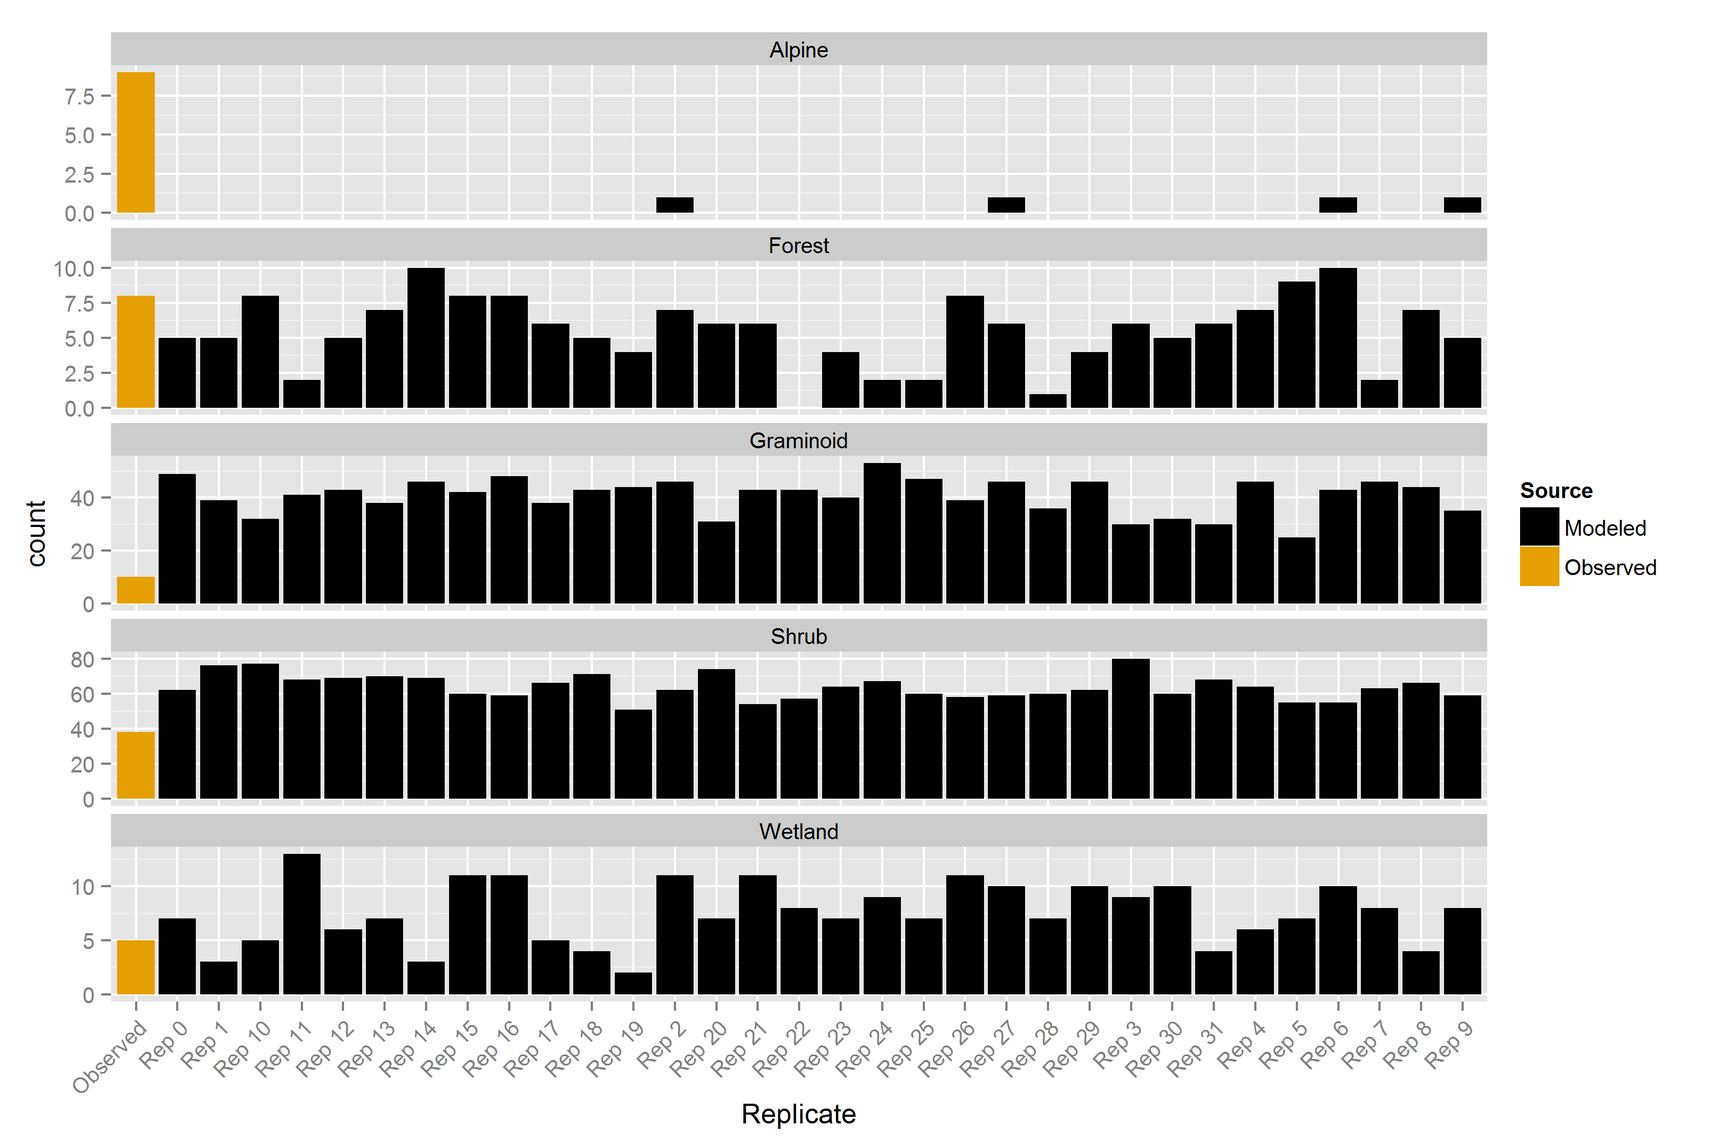
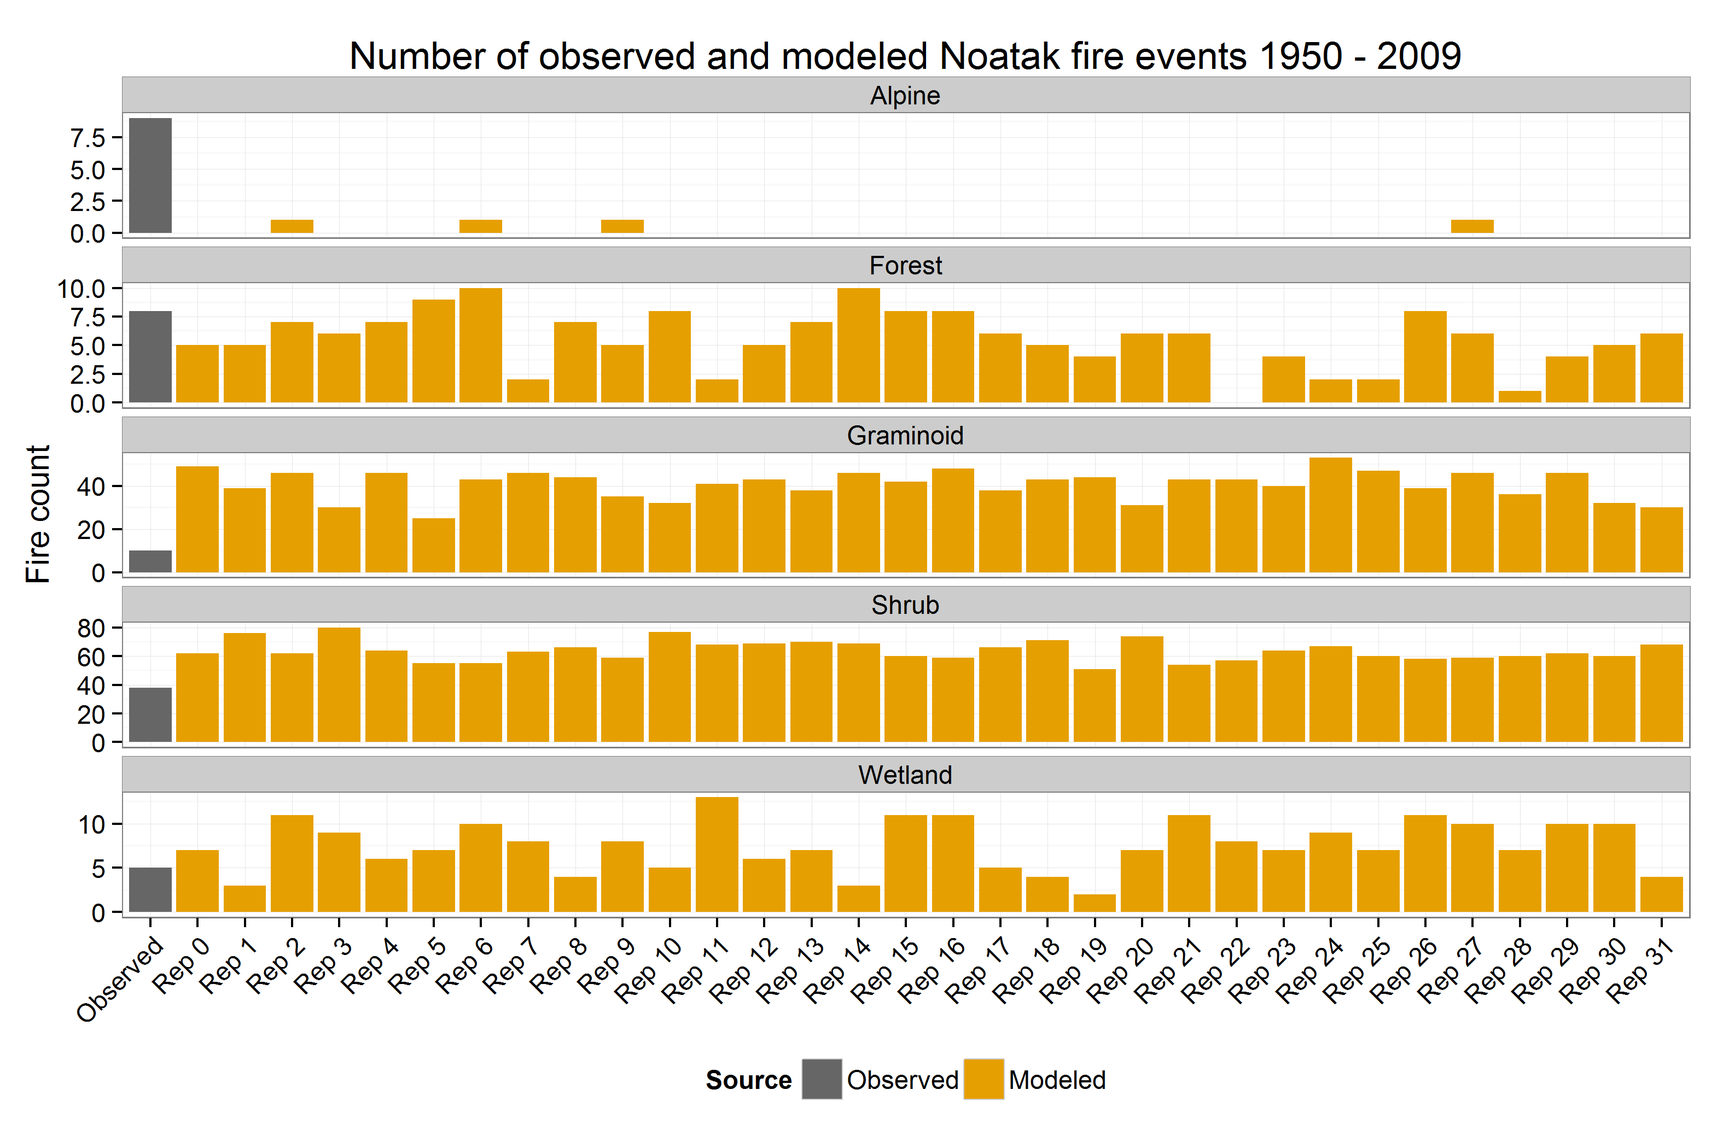
Update docs and plots

diff --git a/docs/html/fse_eda1.html b/docs/html/fse_eda1.html
@@ -171,7 +171,10 @@ img {
               <li><a href="fse_eda1.html">EDA: fire samples</a></li>
               <li><a href="fse_eda2.html">EDA: Noatak shrub fire</a></li>
               <li><a href="fse_eda3.html">EDA: statewide forest fire</a></li>
-              <li><a href="fse_mle.html">Maximum likelihood estimation</a></li>
+              <li class="divider"></li>
+              <li><a href="fse_mle1.html">MLE: setup</a></li>
+              <li><a href="fse_mle2.html">MLE: Noatak shrub fire</a></li>
+              <li><a href="fse_mle3.html">MLE: statewide forest fire</a></li>
             </ul>
 
           <li class="dropdown">
@@ -233,11 +236,19 @@ n.reps &lt;-<span class="st"> </span><span class="kw">length</span>(reps)
 dec &lt;-<span class="st"> </span><span class="kw">sort</span>(<span class="kw">unique</span>(d$Decade))
 n.dec &lt;-<span class="st"> </span><span class="kw">length</span>(dec)
 doms &lt;-<span class="st"> </span><span class="kw">c</span>(<span class="st">&quot;Noatak&quot;</span>, <span class="st">&quot;Statewide&quot;</span>)
+d &lt;-<span class="st"> </span><span class="kw">transform</span>(d, <span class="dt">Replicate =</span> <span class="kw">factor</span>(Replicate, <span class="dt">levels =</span> <span class="kw">unique</span>(Replicate)), 
+    <span class="dt">Source =</span> <span class="kw">factor</span>(Source, <span class="dt">levels =</span> <span class="kw">c</span>(<span class="st">&quot;Observed&quot;</span>, <span class="st">&quot;Modeled&quot;</span>)))
 
 <span class="kw">library</span>(ggplot2)
 <span class="kw">dir.create</span>(plotDir &lt;-<span class="st"> &quot;C:/github/Flammability/plots/fseMLE&quot;</span>, <span class="dt">showWarnings =</span> <span class="ot">FALSE</span>)
-cbpal &lt;-<span class="st"> </span><span class="kw">c</span>(<span class="st">&quot;#000000&quot;</span>, <span class="st">&quot;#E69F00&quot;</span>, <span class="st">&quot;#56B4E9&quot;</span>, <span class="st">&quot;#009E73&quot;</span>, <span class="st">&quot;#F0E442&quot;</span>, <span class="st">&quot;#0072B2&quot;</span>, 
-    <span class="st">&quot;#D55E00&quot;</span>, <span class="st">&quot;#CC79A7&quot;</span>)</code></pre>
+cbpal &lt;-<span class="st"> </span><span class="kw">c</span>(<span class="st">&quot;gray40&quot;</span>, <span class="st">&quot;#E69F00&quot;</span>, <span class="st">&quot;#56B4E9&quot;</span>, <span class="st">&quot;#009E73&quot;</span>, <span class="st">&quot;#F0E442&quot;</span>, <span class="st">&quot;#0072B2&quot;</span>, 
+    <span class="st">&quot;#D55E00&quot;</span>, <span class="st">&quot;#CC79A7&quot;</span>)
+
+<span class="co"># Plot setup</span>
+g &lt;-<span class="st"> </span><span class="kw">ggplot</span>(<span class="dt">data =</span> d, <span class="kw">aes</span>(<span class="dt">x =</span> Replicate, <span class="dt">fill =</span> Source)) +<span class="st"> </span><span class="kw">theme_bw</span>(<span class="dt">base_size =</span> <span class="dv">14</span>) +<span class="st"> </span>
+<span class="st">    </span><span class="kw">theme</span>(<span class="dt">legend.position =</span> <span class="st">&quot;bottom&quot;</span>, <span class="dt">axis.text.x =</span> <span class="kw">element_text</span>(<span class="dt">angle =</span> <span class="dv">45</span>, 
+        <span class="dt">hjust =</span> <span class="dv">1</span>)) +<span class="st"> </span><span class="kw">scale_fill_manual</span>(<span class="dt">values =</span> cbpal) +<span class="st"> </span><span class="kw">scale_colour_manual</span>(<span class="dt">values =</span> cbpal) +<span class="st"> </span>
+<span class="st">    </span><span class="kw">labs</span>(<span class="dt">x =</span> <span class="ot">NULL</span>, <span class="dt">y =</span> <span class="st">&quot;Fire count&quot;</span>)</code></pre>
 </div>
 </div>
 <div id="section-2" class="section level2">
@@ -250,35 +261,25 @@ cbpal &lt;-<span class="st"> </span><span class="kw">c</span>(<span class="st">&
 <div id="fire-count-by-vegetation-class-noatak" class="section level4">
 <h4>Fire count by vegetation class: Noatak</h4>
 <pre class="sourceCode r"><code class="sourceCode r"><span class="co"># Observed and modeled fire counts by vegetation class</span>
-p01a &lt;-<span class="st"> </span><span class="kw">ggplot</span>(<span class="dt">data =</span> <span class="kw">subset</span>(d, Domain ==<span class="st"> &quot;Noatak&quot;</span>), <span class="kw">aes</span>(<span class="dt">x =</span> Replicate, <span class="dt">fill =</span> Source)) +<span class="st"> </span>
-<span class="st">    </span><span class="kw">geom_bar</span>() +<span class="st"> </span><span class="kw">facet_wrap</span>(~Vegetation, <span class="dt">ncol =</span> <span class="dv">1</span>, <span class="dt">scales =</span> <span class="st">&quot;free_y&quot;</span>) +<span class="st"> </span><span class="kw">scale_fill_manual</span>(<span class="dt">values =</span> cbpal) +<span class="st"> </span>
-<span class="st">    </span><span class="kw">theme</span>(<span class="dt">axis.text.x =</span> <span class="kw">element_text</span>(<span class="dt">angle =</span> <span class="dv">45</span>, <span class="dt">hjust =</span> <span class="dv">1</span>))
-p01a</code></pre>
+(p01a &lt;-<span class="st"> </span>g +<span class="st"> </span><span class="kw">geom_bar</span>(<span class="dt">data =</span> <span class="kw">subset</span>(d, Domain ==<span class="st"> &quot;Noatak&quot;</span>)) +<span class="st"> </span><span class="kw">facet_wrap</span>(~Vegetation, 
+    <span class="dt">ncol =</span> <span class="dv">1</span>, <span class="dt">scales =</span> <span class="st">&quot;free_y&quot;</span>) +<span class="st"> </span><span class="kw">labs</span>(<span class="dt">title =</span> <span class="st">&quot;Number of observed and modeled Noatak fire events 1950 - 2009&quot;</span>))</code></pre>
 <p><img src="fse_eda1_files/figure-html/fc_noa_veg-1.png" /></p>
 </div>
 <div id="fire-count-by-vegetation-class-statewide" class="section level4">
 <h4>Fire count by vegetation class: Statewide</h4>
-<pre class="sourceCode r"><code class="sourceCode r">p01b &lt;-<span class="st"> </span><span class="kw">ggplot</span>(<span class="dt">data =</span> <span class="kw">subset</span>(d, Domain ==<span class="st"> &quot;Statewide&quot;</span>), <span class="kw">aes</span>(<span class="dt">x =</span> Replicate, <span class="dt">fill =</span> Source)) +<span class="st"> </span>
-<span class="st">    </span><span class="kw">geom_bar</span>() +<span class="st"> </span><span class="kw">facet_wrap</span>(~Vegetation, <span class="dt">ncol =</span> <span class="dv">1</span>, <span class="dt">scales =</span> <span class="st">&quot;free_y&quot;</span>) +<span class="st"> </span><span class="kw">scale_fill_manual</span>(<span class="dt">values =</span> cbpal) +<span class="st"> </span>
-<span class="st">    </span><span class="kw">theme</span>(<span class="dt">axis.text.x =</span> <span class="kw">element_text</span>(<span class="dt">angle =</span> <span class="dv">45</span>, <span class="dt">hjust =</span> <span class="dv">1</span>))
-p01b</code></pre>
+<pre class="sourceCode r"><code class="sourceCode r">(p01b &lt;-<span class="st"> </span>g +<span class="st"> </span><span class="kw">geom_bar</span>(<span class="dt">data =</span> <span class="kw">subset</span>(d, Domain ==<span class="st"> &quot;Statewide&quot;</span>)) +<span class="st"> </span><span class="kw">facet_wrap</span>(~Vegetation, 
+    <span class="dt">ncol =</span> <span class="dv">1</span>, <span class="dt">scales =</span> <span class="st">&quot;free_y&quot;</span>) +<span class="st"> </span><span class="kw">labs</span>(<span class="dt">title =</span> <span class="st">&quot;Number of observed and modeled statewide fire events 1950 - 2009&quot;</span>))</code></pre>
 <p><img src="fse_eda1_files/figure-html/fc_sw_veg-1.png" /></p>
 </div>
 <div id="fire-count-by-decade-noatak-shrub" class="section level4">
 <h4>Fire count by decade: Noatak shrub</h4>
 <pre class="sourceCode r"><code class="sourceCode r"><span class="co"># Observed and modeled fire counts by decade given vegetation class</span>
-p01c &lt;-<span class="st"> </span><span class="kw">ggplot</span>(<span class="dt">data =</span> <span class="kw">subset</span>(d, Domain ==<span class="st"> &quot;Noatak&quot;</span>), <span class="kw">aes</span>(<span class="dt">x =</span> Replicate, <span class="dt">fill =</span> Source)) +<span class="st"> </span>
-<span class="st">    </span><span class="kw">geom_bar</span>() +<span class="st"> </span><span class="kw">facet_wrap</span>(~Decade, <span class="dt">ncol =</span> <span class="dv">1</span>) +<span class="st"> </span><span class="kw">scale_fill_manual</span>(<span class="dt">values =</span> cbpal) +<span class="st"> </span>
-<span class="st">    </span><span class="kw">theme</span>(<span class="dt">axis.text.x =</span> <span class="kw">element_text</span>(<span class="dt">angle =</span> <span class="dv">45</span>, <span class="dt">hjust =</span> <span class="dv">1</span>))
-p01c</code></pre>
+(p01c &lt;-<span class="st"> </span>p01a +<span class="st"> </span><span class="kw">facet_wrap</span>(~Decade, <span class="dt">ncol =</span> <span class="dv">1</span>) +<span class="st"> </span><span class="kw">labs</span>(<span class="dt">title =</span> <span class="st">&quot;Number of observed and modeled Noatak shrub fire events&quot;</span>))</code></pre>
 <p><img src="fse_eda1_files/figure-html/fc_noa_shrub_dec-1.png" /></p>
 </div>
 <div id="fire-count-by-decade-statewide-forest" class="section level4">
 <h4>Fire count by decade: Statewide forest</h4>
-<pre class="sourceCode r"><code class="sourceCode r">p01d &lt;-<span class="st"> </span><span class="kw">ggplot</span>(<span class="dt">data =</span> <span class="kw">subset</span>(d, Domain ==<span class="st"> &quot;Statewide&quot;</span>), <span class="kw">aes</span>(<span class="dt">x =</span> Replicate, <span class="dt">fill =</span> Source)) +<span class="st"> </span>
-<span class="st">    </span><span class="kw">geom_bar</span>() +<span class="st"> </span><span class="kw">facet_wrap</span>(~Decade, <span class="dt">ncol =</span> <span class="dv">1</span>) +<span class="st"> </span><span class="kw">scale_fill_manual</span>(<span class="dt">values =</span> cbpal) +<span class="st"> </span>
-<span class="st">    </span><span class="kw">theme</span>(<span class="dt">axis.text.x =</span> <span class="kw">element_text</span>(<span class="dt">angle =</span> <span class="dv">45</span>, <span class="dt">hjust =</span> <span class="dv">1</span>))
-p01d</code></pre>
+<pre class="sourceCode r"><code class="sourceCode r">(p01d &lt;-<span class="st"> </span>p01b +<span class="st"> </span><span class="kw">facet_wrap</span>(~Decade, <span class="dt">ncol =</span> <span class="dv">1</span>) +<span class="st"> </span><span class="kw">labs</span>(<span class="dt">title =</span> <span class="st">&quot;Number of observed and modeled statewide forest fire events&quot;</span>))</code></pre>
 <p><img src="fse_eda1_files/figure-html/fc_sw_forest_dec-1.png" /></p>
 </div>
 </div>

diff --git a/docs/html/AlfrescoCalibration.html b/docs/html/AlfrescoCalibration.html
@@ -171,7 +171,10 @@ img {
               <li><a href="fse_eda1.html">EDA: fire samples</a></li>
               <li><a href="fse_eda2.html">EDA: Noatak shrub fire</a></li>
               <li><a href="fse_eda3.html">EDA: statewide forest fire</a></li>
-              <li><a href="fse_mle.html">Maximum likelihood estimation</a></li>
+              <li class="divider"></li>
+              <li><a href="fse_mle1.html">MLE: setup</a></li>
+              <li><a href="fse_mle2.html">MLE: Noatak shrub fire</a></li>
+              <li><a href="fse_mle3.html">MLE: statewide forest fire</a></li>
             </ul>
 
           <li class="dropdown">
@@ -234,15 +237,7 @@ if (<span class="kw">exists</span>(<span class="st">&quot;out&quot;</span>)) <sp
 if (<span class="kw">exists</span>(<span class="st">&quot;yr.start&quot;</span>) &amp;<span class="st"> </span><span class="kw">exists</span>(<span class="st">&quot;yr.end&quot;</span>)) yrs &lt;-<span class="st"> </span>yr.start:yr.end else yrs &lt;-<span class="st"> </span><span class="dv">1950</span>:<span class="dv">2013</span>
 if (!<span class="kw">exists</span>(<span class="st">&quot;baseline.year&quot;</span>)) <span class="kw">stop</span>(<span class="st">&quot;baseline.year not found&quot;</span>) else baseline.year &lt;-<span class="st"> </span><span class="kw">as.numeric</span>(baseline.year)
 if (<span class="kw">substr</span>(<span class="kw">tolower</span>(alf.domain), <span class="dv">1</span>, <span class="dv">6</span>) ==<span class="st"> &quot;statew&quot;</span>) alf.domain &lt;-<span class="st"> &quot;Statewide&quot;</span> else if (<span class="kw">substr</span>(<span class="kw">tolower</span>(alf.domain), 
-    <span class="dv">1</span>, <span class="dv">6</span>) ==<span class="st"> &quot;noatak&quot;</span>) alf.domain &lt;-<span class="st"> </span><span class="kw">substr</span>(alf.domain, <span class="dv">1</span>, <span class="dv">6</span>)
-
-<span class="co"># setwd(&#39;/workspace/UA/mfleonawicz/leonawicz/projects/Flammability/code&#39;)</span>
-<span class="co"># load(paste0(&#39;../workspaces/alfresco/Alf_Calib_Setup_112912_&#39;, alf.domain,</span>
-<span class="co"># &#39;.RData&#39;)) lapply(c(&#39;CABvsTimePlot.R&#39;, &#39;AByearPlot.R&#39;, &#39;fireSizePlot.R&#39;,</span>
-<span class="co"># &#39;CABvsFSPlot.R&#39;), source)</span>
-
-<span class="co"># load(paste0(&#39;/big_scratch/mfleonawicz/Alf_Calib_Setup_112912_&#39;,</span>
-<span class="co"># alf.domain, &#39;.RData&#39;))</span></code></pre>
+    <span class="dv">1</span>, <span class="dv">6</span>) ==<span class="st"> &quot;noatak&quot;</span>) alf.domain &lt;-<span class="st"> </span><span class="kw">substr</span>(alf.domain, <span class="dv">1</span>, <span class="dv">6</span>)</code></pre>
 </div>
 
 <!-- some extra javascript for older browsers -->

diff --git a/docs/html/fse_eda2.html b/docs/html/fse_eda2.html
@@ -171,7 +171,10 @@ img {
               <li><a href="fse_eda1.html">EDA: fire samples</a></li>
               <li><a href="fse_eda2.html">EDA: Noatak shrub fire</a></li>
               <li><a href="fse_eda3.html">EDA: statewide forest fire</a></li>
-              <li><a href="fse_mle.html">Maximum likelihood estimation</a></li>
+              <li class="divider"></li>
+              <li><a href="fse_mle1.html">MLE: setup</a></li>
+              <li><a href="fse_mle2.html">MLE: Noatak shrub fire</a></li>
+              <li><a href="fse_mle3.html">MLE: statewide forest fire</a></li>
             </ul>
 
           <li class="dropdown">
@@ -215,7 +218,7 @@ check_lnorm &lt;-<span class="st"> </span>function(d, <span class="dt">nmax.ad.t
     <span class="dt">period =</span> <span class="st">&quot;1950-2009&quot;</span>, <span class="dt">border =</span> <span class="ot">FALSE</span>, ...) {
     f &lt;-<span class="st"> </span>function() {
         <span class="kw">require</span>(<span class="st">&quot;nortest&quot;</span>)
-        dl &lt;-<span class="st"> </span><span class="kw">split</span>(d$FSE, d$Replicate)
+        dl &lt;-<span class="st"> </span><span class="kw">split</span>(d$FSE, <span class="kw">as.character</span>(d$Replicate))
         if (<span class="kw">length</span>(dl) ==<span class="st"> </span><span class="dv">2</span>) 
             iters &lt;-<span class="st"> </span><span class="dv">1</span>:<span class="dv">2</span> else if (<span class="kw">names</span>(dl) ==<span class="st"> &quot;Observed&quot;</span>) 
             iters &lt;-<span class="st"> </span><span class="dv">1</span> else iters &lt;-<span class="st"> </span><span class="dv">2</span>

diff --git a/docs/html/AByearPlot.html b/docs/html/AByearPlot.html
@@ -171,7 +171,10 @@ img {
               <li><a href="fse_eda1.html">EDA: fire samples</a></li>
               <li><a href="fse_eda2.html">EDA: Noatak shrub fire</a></li>
               <li><a href="fse_eda3.html">EDA: statewide forest fire</a></li>
-              <li><a href="fse_mle.html">Maximum likelihood estimation</a></li>
+              <li class="divider"></li>
+              <li><a href="fse_mle1.html">MLE: setup</a></li>
+              <li><a href="fse_mle2.html">MLE: Noatak shrub fire</a></li>
+              <li><a href="fse_mle3.html">MLE: statewide forest fire</a></li>
             </ul>
 
           <li class="dropdown">

diff --git a/docs/html/AlfrescoFRP.html b/docs/html/AlfrescoFRP.html
@@ -171,7 +171,10 @@ img {
               <li><a href="fse_eda1.html">EDA: fire samples</a></li>
               <li><a href="fse_eda2.html">EDA: Noatak shrub fire</a></li>
               <li><a href="fse_eda3.html">EDA: statewide forest fire</a></li>
-              <li><a href="fse_mle.html">Maximum likelihood estimation</a></li>
+              <li class="divider"></li>
+              <li><a href="fse_mle1.html">MLE: setup</a></li>
+              <li><a href="fse_mle2.html">MLE: Noatak shrub fire</a></li>
+              <li><a href="fse_mle3.html">MLE: statewide forest fire</a></li>
             </ul>
 
           <li class="dropdown">

diff --git a/docs/html/CABvsFSPlot.html b/docs/html/CABvsFSPlot.html
@@ -171,7 +171,10 @@ img {
               <li><a href="fse_eda1.html">EDA: fire samples</a></li>
               <li><a href="fse_eda2.html">EDA: Noatak shrub fire</a></li>
               <li><a href="fse_eda3.html">EDA: statewide forest fire</a></li>
-              <li><a href="fse_mle.html">Maximum likelihood estimation</a></li>
+              <li class="divider"></li>
+              <li><a href="fse_mle1.html">MLE: setup</a></li>
+              <li><a href="fse_mle2.html">MLE: Noatak shrub fire</a></li>
+              <li><a href="fse_mle3.html">MLE: statewide forest fire</a></li>
             </ul>
 
           <li class="dropdown">

diff --git a/docs/html/CABvsTimePlot.html b/docs/html/CABvsTimePlot.html
@@ -171,7 +171,10 @@ img {
               <li><a href="fse_eda1.html">EDA: fire samples</a></li>
               <li><a href="fse_eda2.html">EDA: Noatak shrub fire</a></li>
               <li><a href="fse_eda3.html">EDA: statewide forest fire</a></li>
-              <li><a href="fse_mle.html">Maximum likelihood estimation</a></li>
+              <li class="divider"></li>
+              <li><a href="fse_mle1.html">MLE: setup</a></li>
+              <li><a href="fse_mle2.html">MLE: Noatak shrub fire</a></li>
+              <li><a href="fse_mle3.html">MLE: statewide forest fire</a></li>
             </ul>
 
           <li class="dropdown">

diff --git a/docs/html/FlammabilityMapMultipliers.html b/docs/html/FlammabilityMapMultipliers.html
@@ -171,7 +171,10 @@ img {
               <li><a href="fse_eda1.html">EDA: fire samples</a></li>
               <li><a href="fse_eda2.html">EDA: Noatak shrub fire</a></li>
               <li><a href="fse_eda3.html">EDA: statewide forest fire</a></li>
-              <li><a href="fse_mle.html">Maximum likelihood estimation</a></li>
+              <li class="divider"></li>
+              <li><a href="fse_mle1.html">MLE: setup</a></li>
+              <li><a href="fse_mle2.html">MLE: Noatak shrub fire</a></li>
+              <li><a href="fse_mle3.html">MLE: statewide forest fire</a></li>
             </ul>
 
           <li class="dropdown">

diff --git a/docs/html/clim_1km_clip2ak.html b/docs/html/clim_1km_clip2ak.html
@@ -171,7 +171,10 @@ img {
               <li><a href="fse_eda1.html">EDA: fire samples</a></li>
               <li><a href="fse_eda2.html">EDA: Noatak shrub fire</a></li>
               <li><a href="fse_eda3.html">EDA: statewide forest fire</a></li>
-              <li><a href="fse_mle.html">Maximum likelihood estimation</a></li>
+              <li class="divider"></li>
+              <li><a href="fse_mle1.html">MLE: setup</a></li>
+              <li><a href="fse_mle2.html">MLE: Noatak shrub fire</a></li>
+              <li><a href="fse_mle3.html">MLE: statewide forest fire</a></li>
             </ul>
 
           <li class="dropdown">

diff --git a/docs/html/clim_resample_2km_1km.html b/docs/html/clim_resample_2km_1km.html
@@ -171,7 +171,10 @@ img {
               <li><a href="fse_eda1.html">EDA: fire samples</a></li>
               <li><a href="fse_eda2.html">EDA: Noatak shrub fire</a></li>
               <li><a href="fse_eda3.html">EDA: statewide forest fire</a></li>
-              <li><a href="fse_mle.html">Maximum likelihood estimation</a></li>
+              <li class="divider"></li>
+              <li><a href="fse_mle1.html">MLE: setup</a></li>
+              <li><a href="fse_mle2.html">MLE: Noatak shrub fire</a></li>
+              <li><a href="fse_mle3.html">MLE: statewide forest fire</a></li>
             </ul>
 
           <li class="dropdown">

diff --git a/docs/html/duplicate_flam_maps.html b/docs/html/duplicate_flam_maps.html
@@ -171,7 +171,10 @@ img {
               <li><a href="fse_eda1.html">EDA: fire samples</a></li>
               <li><a href="fse_eda2.html">EDA: Noatak shrub fire</a></li>
               <li><a href="fse_eda3.html">EDA: statewide forest fire</a></li>
-              <li><a href="fse_mle.html">Maximum likelihood estimation</a></li>
+              <li class="divider"></li>
+              <li><a href="fse_mle1.html">MLE: setup</a></li>
+              <li><a href="fse_mle2.html">MLE: Noatak shrub fire</a></li>
+              <li><a href="fse_mle3.html">MLE: statewide forest fire</a></li>
             </ul>
 
           <li class="dropdown">

diff --git a/docs/html/fireSizePlot.html b/docs/html/fireSizePlot.html
@@ -171,7 +171,10 @@ img {
               <li><a href="fse_eda1.html">EDA: fire samples</a></li>
               <li><a href="fse_eda2.html">EDA: Noatak shrub fire</a></li>
               <li><a href="fse_eda3.html">EDA: statewide forest fire</a></li>
-              <li><a href="fse_mle.html">Maximum likelihood estimation</a></li>
+              <li class="divider"></li>
+              <li><a href="fse_mle1.html">MLE: setup</a></li>
+              <li><a href="fse_mle2.html">MLE: Noatak shrub fire</a></li>
+              <li><a href="fse_mle3.html">MLE: statewide forest fire</a></li>
             </ul>
 
           <li class="dropdown">
